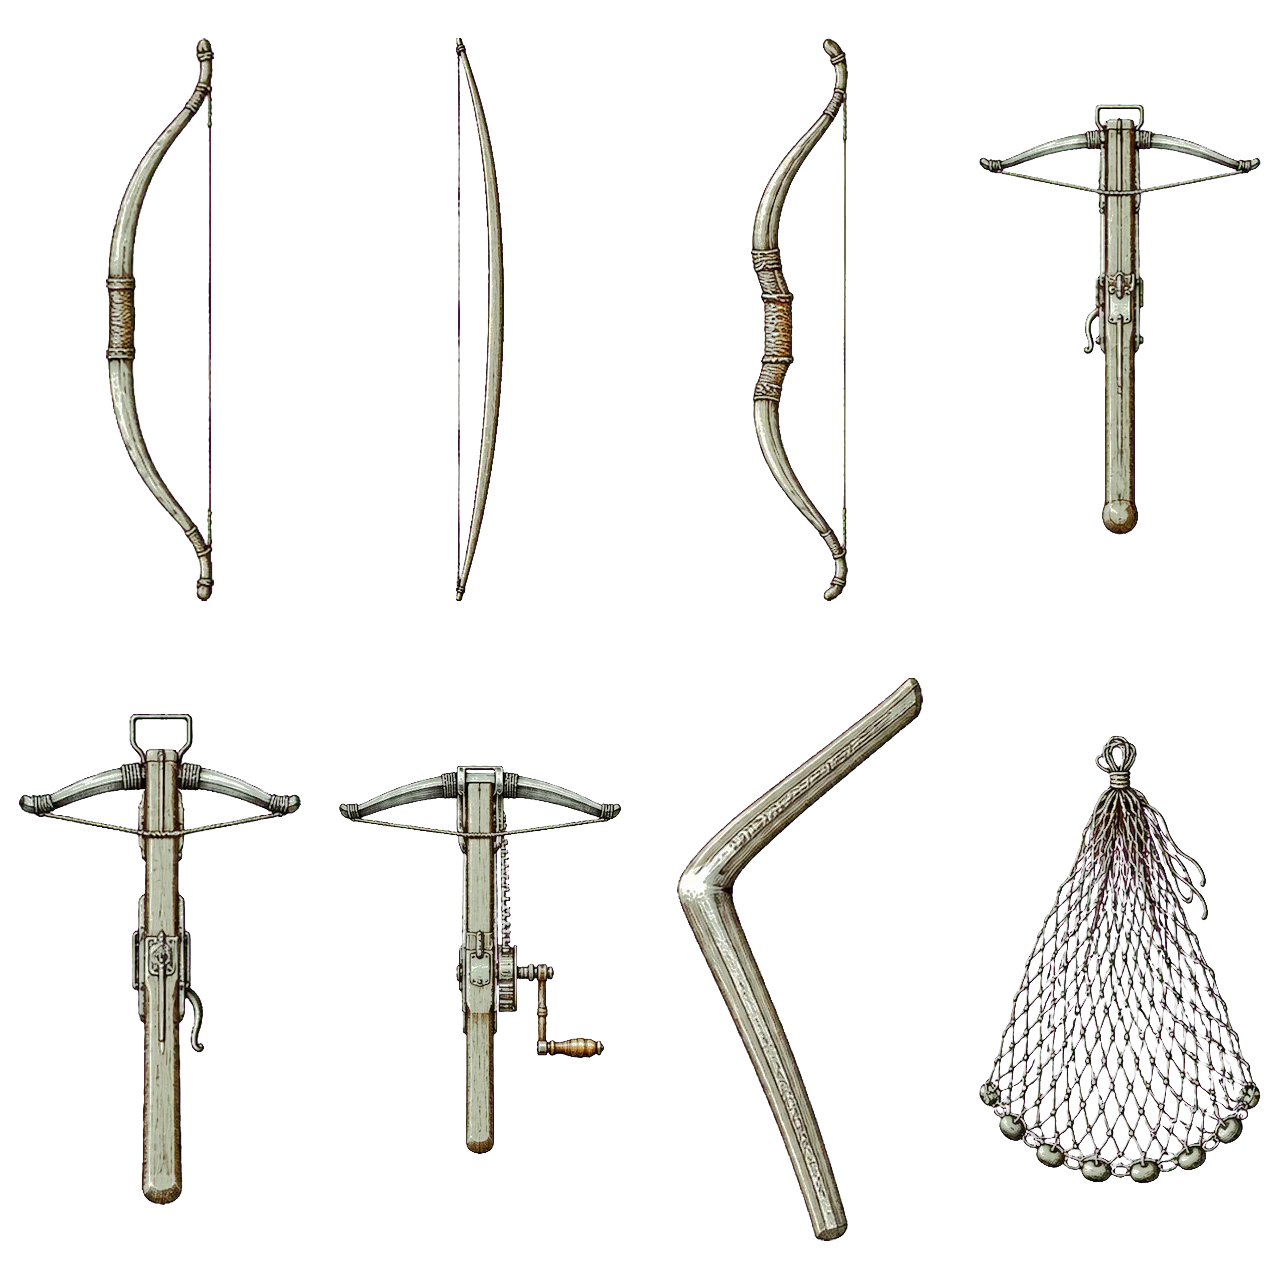
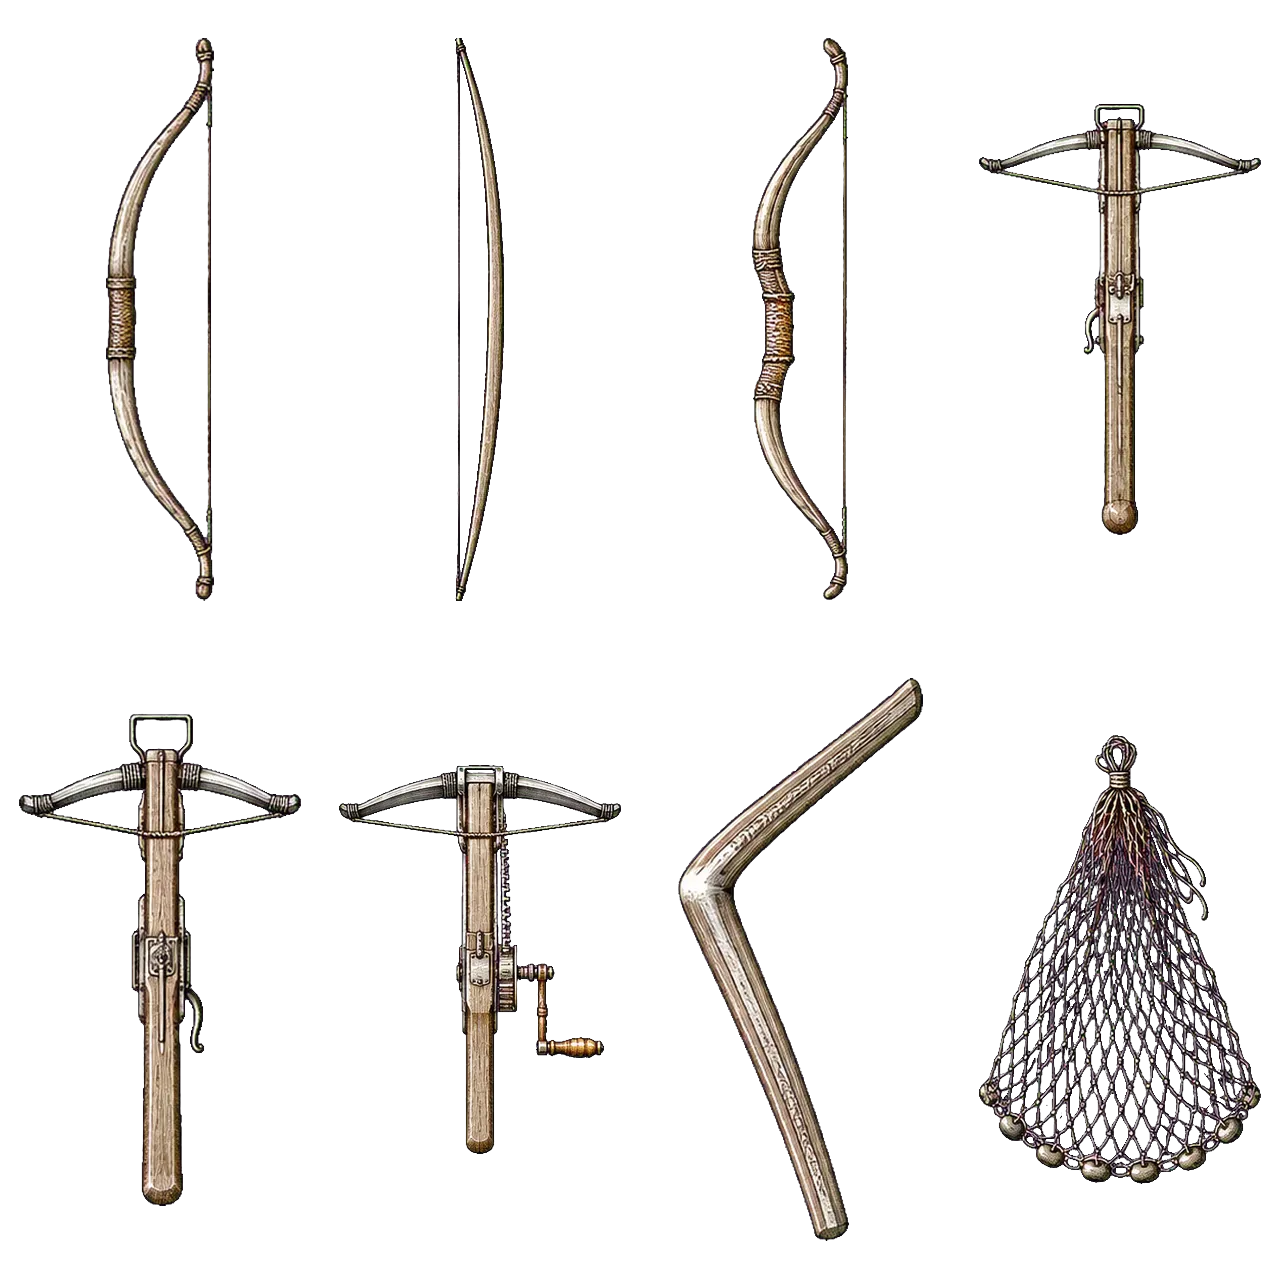
Arte refeita a partir das folhas ja sem fundo
O retificador ganhou um segundo caminho: quando a folha chega COM canal alfa,
esse alfa e a palavra final e a chave de cor nem roda. Separar por cor de novo
so teria como piorar o que ja foi recortado.

A arte ficou melhor e os arquivos, menores: o atlas das armaduras caiu de
1084 KB para 452 KB e o dos escudos de 721 KB para 294 KB (1,1 MB no total,
contra 2,4 MB). O peso extra vinha do ruido que a inversao de mistura deixava
nas bordas, e que nao comprime.

Corrigido de passagem um risco do --aplicar: ele guardava a peca atual em
acervo-museu/ sem checar se ja havia backup ali. Numa segunda rodada de arte
isso trocaria o acervo original (museu e icone) pela arte anterior, e o
original se perderia. Agora so guarda se ainda nao houver copia.

As folhas de origem ficam em folhas/<folha>/bruta-sem-fundo.png, ao lado da
bruta original.

diff --git a/scripts/retificar_folha.py b/scripts/retificar_folha.py
@@ -176,17 +176,26 @@ def retificar(folha_id, caminho_imagem, aplicar=False):
     cw, ch = folha["celula"]
     ids = [p["id"] for p in folha["pecas"]]
 
-    im = Image.open(caminho_imagem).convert("RGB")
-    a = np.asarray(im)
+    bruta = Image.open(caminho_imagem)
+    rgba = np.asarray(bruta.convert("RGBA"))
 
-    # a cor do fundo vem da moldura da folha, não do prompt: se o gerador
-    # entregou um magenta torto, é o dele que vale.
-    moldura = np.concatenate([a[:4].reshape(-1, 3), a[-4:].reshape(-1, 3),
-                              a[:, :4].reshape(-1, 3), a[:, -4:].reshape(-1, 3)])
-    cor_fundo = np.median(moldura, axis=0).astype(np.float32)
-
-    dist = np.sqrt(((a.astype(np.float32) - cor_fundo) ** 2).sum(axis=2))
-    mascara = dist > TOL_FUNDO
+    # Dois caminhos. Se a folha JÁ vem com transparência (alguém tirou o fundo
+    # antes, num editor ou noutra ferramenta), o alfa dela é a palavra final:
+    # separar por cor de novo só teria como piorar. Sem alfa, vale a chave de
+    # cor sobre o fundo chapado que o prompt pediu.
+    pronta = (rgba[:, :, 3] < 16).mean() > 0.05
+    cor_fundo = None
+    if pronta:
+        mascara = rgba[:, :, 3] > 64
+    else:
+        a = rgba[:, :, :3]
+        # a cor do fundo vem da moldura da folha, não do prompt: se o gerador
+        # entregou um magenta torto, é o dele que vale.
+        moldura = np.concatenate([a[:4].reshape(-1, 3), a[-4:].reshape(-1, 3),
+                                  a[:, :4].reshape(-1, 3), a[:, -4:].reshape(-1, 3)])
+        cor_fundo = np.median(moldura, axis=0).astype(np.float32)
+        dist = np.sqrt(((a.astype(np.float32) - cor_fundo) ** 2).sum(axis=2))
+        mascara = dist > TOL_FUNDO
 
     objetos = acha_pecas(mascara, len(ids))
     caixas, celulas = agrupa_por_celula(objetos, cols, lins)
@@ -199,7 +208,8 @@ def retificar(folha_id, caminho_imagem, aplicar=False):
                     "para ser lida. Sai mais barato gerar a folha de novo do que remendar.",
             "objetos_soltos": len(objetos),
             "celulas_ocupadas": [[int(l), int(c)] for l, c in ocupadas],
-            "cor_fundo": [int(v) for v in cor_fundo],
+            "fonte": "alfa da própria folha" if pronta else "chave de cor",
+            "cor_fundo": None if cor_fundo is None else [int(v) for v in cor_fundo],
         }, ensure_ascii=False))
         return False
 
@@ -210,9 +220,11 @@ def retificar(folha_id, caminho_imagem, aplicar=False):
 
     for i, (caixa, peca_id) in enumerate(zip(caixas, ids)):
         x0, y0, x1, y1 = caixa
-        bloco = a[y0:y1, x0:x1]
-        rgb, alfa = separa_do_fundo(bloco, cor_fundo)
-        recorte = Image.fromarray(np.dstack([rgb, (alfa * 255).astype(np.uint8)]), "RGBA")
+        if pronta:
+            recorte = Image.fromarray(rgba[y0:y1, x0:x1].copy(), "RGBA")
+        else:
+            rgb, alfa = separa_do_fundo(rgba[y0:y1, x0:x1, :3], cor_fundo)
+            recorte = Image.fromarray(np.dstack([rgb, (alfa * 255).astype(np.uint8)]), "RGBA")
         caixa_apertada = recorte.getbbox()
         if caixa_apertada:
             recorte = recorte.crop(caixa_apertada)
@@ -254,12 +266,17 @@ def retificar(folha_id, caminho_imagem, aplicar=False):
         antigo.mkdir(exist_ok=True)
         for peca_id in ids:
             atual = PASTA / f"{peca_id}.png"
-            if atual.exists():
-                shutil.move(str(atual), str(antigo / f"{peca_id}.png"))
+            guardado = antigo / f"{peca_id}.png"
+            # o backup é do acervo ORIGINAL (museu e ícone). Numa segunda rodada
+            # de arte, sobrescrevê-lo trocaria o original pela arte anterior e o
+            # acervo de verdade se perderia.
+            if atual.exists() and not guardado.exists():
+                shutil.move(str(atual), str(guardado))
             shutil.copy(str(saida / "pecas" / f"{peca_id}.png"), str(atual))
 
     print(json.dumps({
         "ok": True, "folha": folha_id, "pecas": len(ids),
+        "fonte": "alfa da própria folha" if pronta else "chave de cor",
         "atlas": f"{cw * cols}×{ch * lins}",
         "png_kb": round((saida / f"{folha_id}.png").stat().st_size / 1024),
         "webp_kb": round((saida / f"{folha_id}.webp").stat().st_size / 1024),
